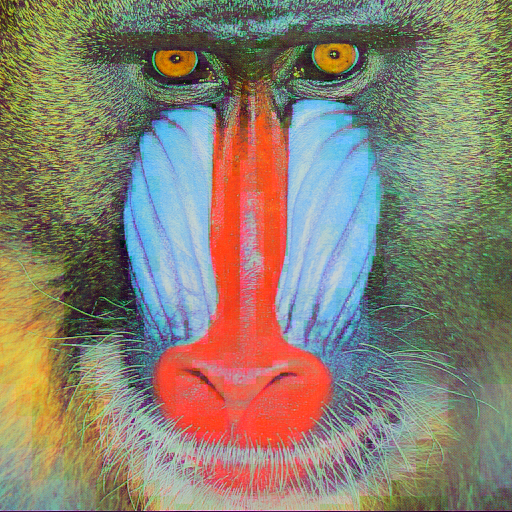
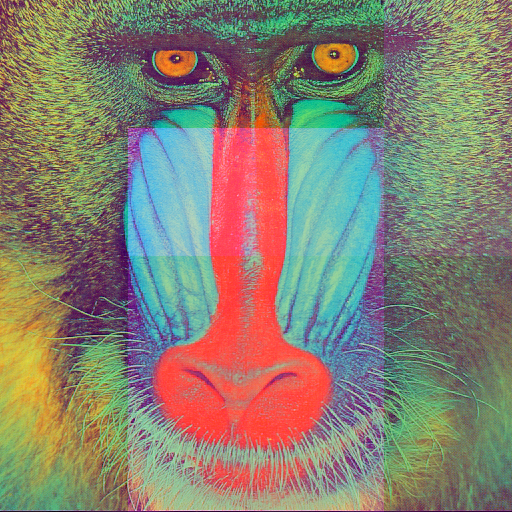
uncompress function

diff --git a/Assignment4/Haar_wavelet.py b/Assignment4/Haar_wavelet.py
@@ -24,6 +24,8 @@ def psnr(I1,I2):
 
 
 def run_length_encoding(image):
+    m,n = image.shape
+    image= image.flatten()
     bitstream = ""
     skipped_zeros = 0
     for i in range(image.shape[0]):
@@ -32,6 +34,7 @@ def run_length_encoding(image):
             skipped_zeros=0
         else:
             skipped_zeros=skipped_zeros+1
+    bitstream = str(m)+ " " + str(n) + " "+ bitstream + ";"
     return bitstream
 
 
@@ -91,7 +94,7 @@ def haar2D(image):
     return result_img,LL,coefficients
 
 
-def haar_transform(image,levels=None,threshold=None): 
+def haar_transform(image,levels=None,K=None): 
     img = image.copy()
     m,n = img.shape
     detail_coef = dict()
@@ -111,9 +114,9 @@ def haar_transform(image,levels=None,threshold=None):
                 m = m//2
                 n = n//2
                 level = level+1
-                if(threshold is not None):
-                    for key,value in _coef.items():
-                        _coef[key] = np.where(np.abs(_coef[key])<threshold,0,_coef[key])
+                # if(threshold is not None):
+                #     for key,value in _coef.items():
+                #         _coef[key] = np.where(np.abs(_coef[key])<threshold,0,_coef[key])
                 detail_coef["level_"+str(level)] = _coef
         else:
             while(m!=1):
@@ -123,15 +126,28 @@ def haar_transform(image,levels=None,threshold=None):
                 m = m//2
                 n = n//2
                 level = level+1
-                if(threshold is not None):
-                    for key,value in _coef.items():
-                        _coef[key] = np.where(np.abs(_coef[key])<threshold,0,_coef[key])
+                # if(threshold is not None):
+                #     for key,value in _coef.items():
+                #         _coef[key] = np.where(np.abs(_coef[key])<threshold,0,_coef[key])
                 detail_coef["level_"+str(level)] = _coef
-
-    haar_result = haar_result.astype(np.float32)
-    if(threshold is not None):
-        haar_result = np.where(np.abs(haar_result)<threshold,0,haar_result)
     return haar_result,LL,detail_coef
+
+def thresholdingWaveletCoef(a,detail_coef,haar_forward,K):
+    total_levels = len(detail_coef)
+    k = total_levels
+    x,y = a.shape
+    haar_forward = haar_forward.astype(np.float32)
+    wavelet_coef = np.array(list(haar_forward[x:,y:].flatten()) + list(haar_forward[x:,:y].flatten()))
+    wavelet_coef = np.unique(np.round(wavelet_coef,decimals=1))
+    threshold_val = np.percentile(np.abs(wavelet_coef),100-K)
+    print(threshold_val)
+    while(k!=1):
+        for key,value in detail_coef["level_"+str(k)].items():
+            detail_coef["level_"+str(k)][key] = np.where(np.abs(detail_coef["level_"+str(k)][key])<threshold_val,0,detail_coef["level_"+str(k)][key])
+        k = k-1
+    haar_forward = np.where(np.abs(haar_forward)<threshold_val,0,haar_forward)
+    return detail_coef,haar_forward.astype(np.float32)
+    
 
 
 def inverseHaar2D(a,detail_coef,level=None,threshold=None):
@@ -172,6 +188,54 @@ def yuv2rgb(yuv):
     return np.clip(np.dot(yuv,rgb_from_yuv),0,1)
 
 
+def uncompress(file):
+    with open(file,"r") as f:
+        stream = f.read()
+    stream = stream.split(" ")
+    m = int(stream[0])
+    n = int(stream[1])
+    img = np.zeros((m*n,))
+    i = 2
+    k = 0
+    skipped_zeros = 0
+    while(k<m*n):
+        if(stream[i]==";"):
+            break
+    
+        img[k] =float(''.join(filter(str.isdigit, stream[i])))
+
+        if(i+3<len(stream)):
+            skipped_zeros = int(''.join(filter(str.isdigit, stream[i+3])))
+        
+        if(skipped_zeros!=0):
+            k=k+skipped_zeros+1
+        else:
+            k=k+1
+        i=i+2
+    img = img.reshape((m,n))
+    return img
+
+def haarmatrix2detailCoef(a,haar_transform):
+    m,n = haar_transform.shape
+    M = m
+    N = n
+    x,y = a.shape
+    detail_coef = dict()
+    level=1
+    while(m!=x):
+        curr_dict = {}
+        curr_dict["LH"] = haar_transform[:int(m//2),int(n//2):n]
+        curr_dict["HL"] = haar_transform[int(m//2):m,:int(n//2)]
+        curr_dict["HH"] = haar_transform[int(m//2):m,int(n//2):n]
+        detail_coef["level_"+str(level)] = curr_dict
+        level =level+1
+        m=int(m//2)
+        n = int(n//2)
+    return detail_coef
+
+
+
+
 if __name__ == "__main__":
     img_file = sys.argv[1]
     orig_img  = plt.imread(img_file)
@@ -183,21 +247,29 @@ if __name__ == "__main__":
     # orig_noised_img,_ = gaussian_noise(orig_img)
 
     #forward wavelet transform
-    haar_result,a,detail_coef = haar_transform(orig_img,threshold=0.7)
+    haar_result,a,detail_coef = haar_transform(orig_img)
     #run length encoding
-    bitstream = run_length_encoding(haar_result.flatten())
+    print("thresholding...")
+    detail_coef_after_thresholding,haar_result_after_thresholding = thresholdingWaveletCoef(a,detail_coef,haar_result,50) 
+    print("run length encoding...")
+    bitstream = run_length_encoding(haar_result_after_thresholding)
 
     #writing encoded stream to file
     with open("encoded_file.txt","w") as f:
         f.write(bitstream)
 
-    # #inverse wavelet transform (threshold to remove noise)
+    rturn_img = uncompress("encoded_file.txt")
+    print(rturn_img.shape)
+    detail_coef = haarmatrix2detailCoef(a,rturn_img)
     inv_img = inverseHaar2D(a,detail_coef)
+    inv_img_orig = inverseHaar2D(a,detail_coef_after_thresholding)
     YUV[:,:,0] = inv_img
     back_rgb = yuv2rgb(YUV)
-    plt.imsave(img_file[:-4]+"_inverse_haar.png",back_rgb)
-    plt.imshow(back_rgb)
-    plt.show()
+    YUV[:,:,0] = inv_img_orig
+    back_rgb_orig = yuv2rgb(YUV)
+    plt.imsave(img_file[:-4]+"_inverse_haar_uncompressed.png",back_rgb)
+    plt.imsave(img_file[:-4]+"_inverse_haar_orig.png",back_rgb_orig)
+    cv2.imshow("uncompressed",rturn_img)
     cv2.imshow("haar",haar_result)
-    cv2.waitKey(1)
+    cv2.waitKey(0)
     
